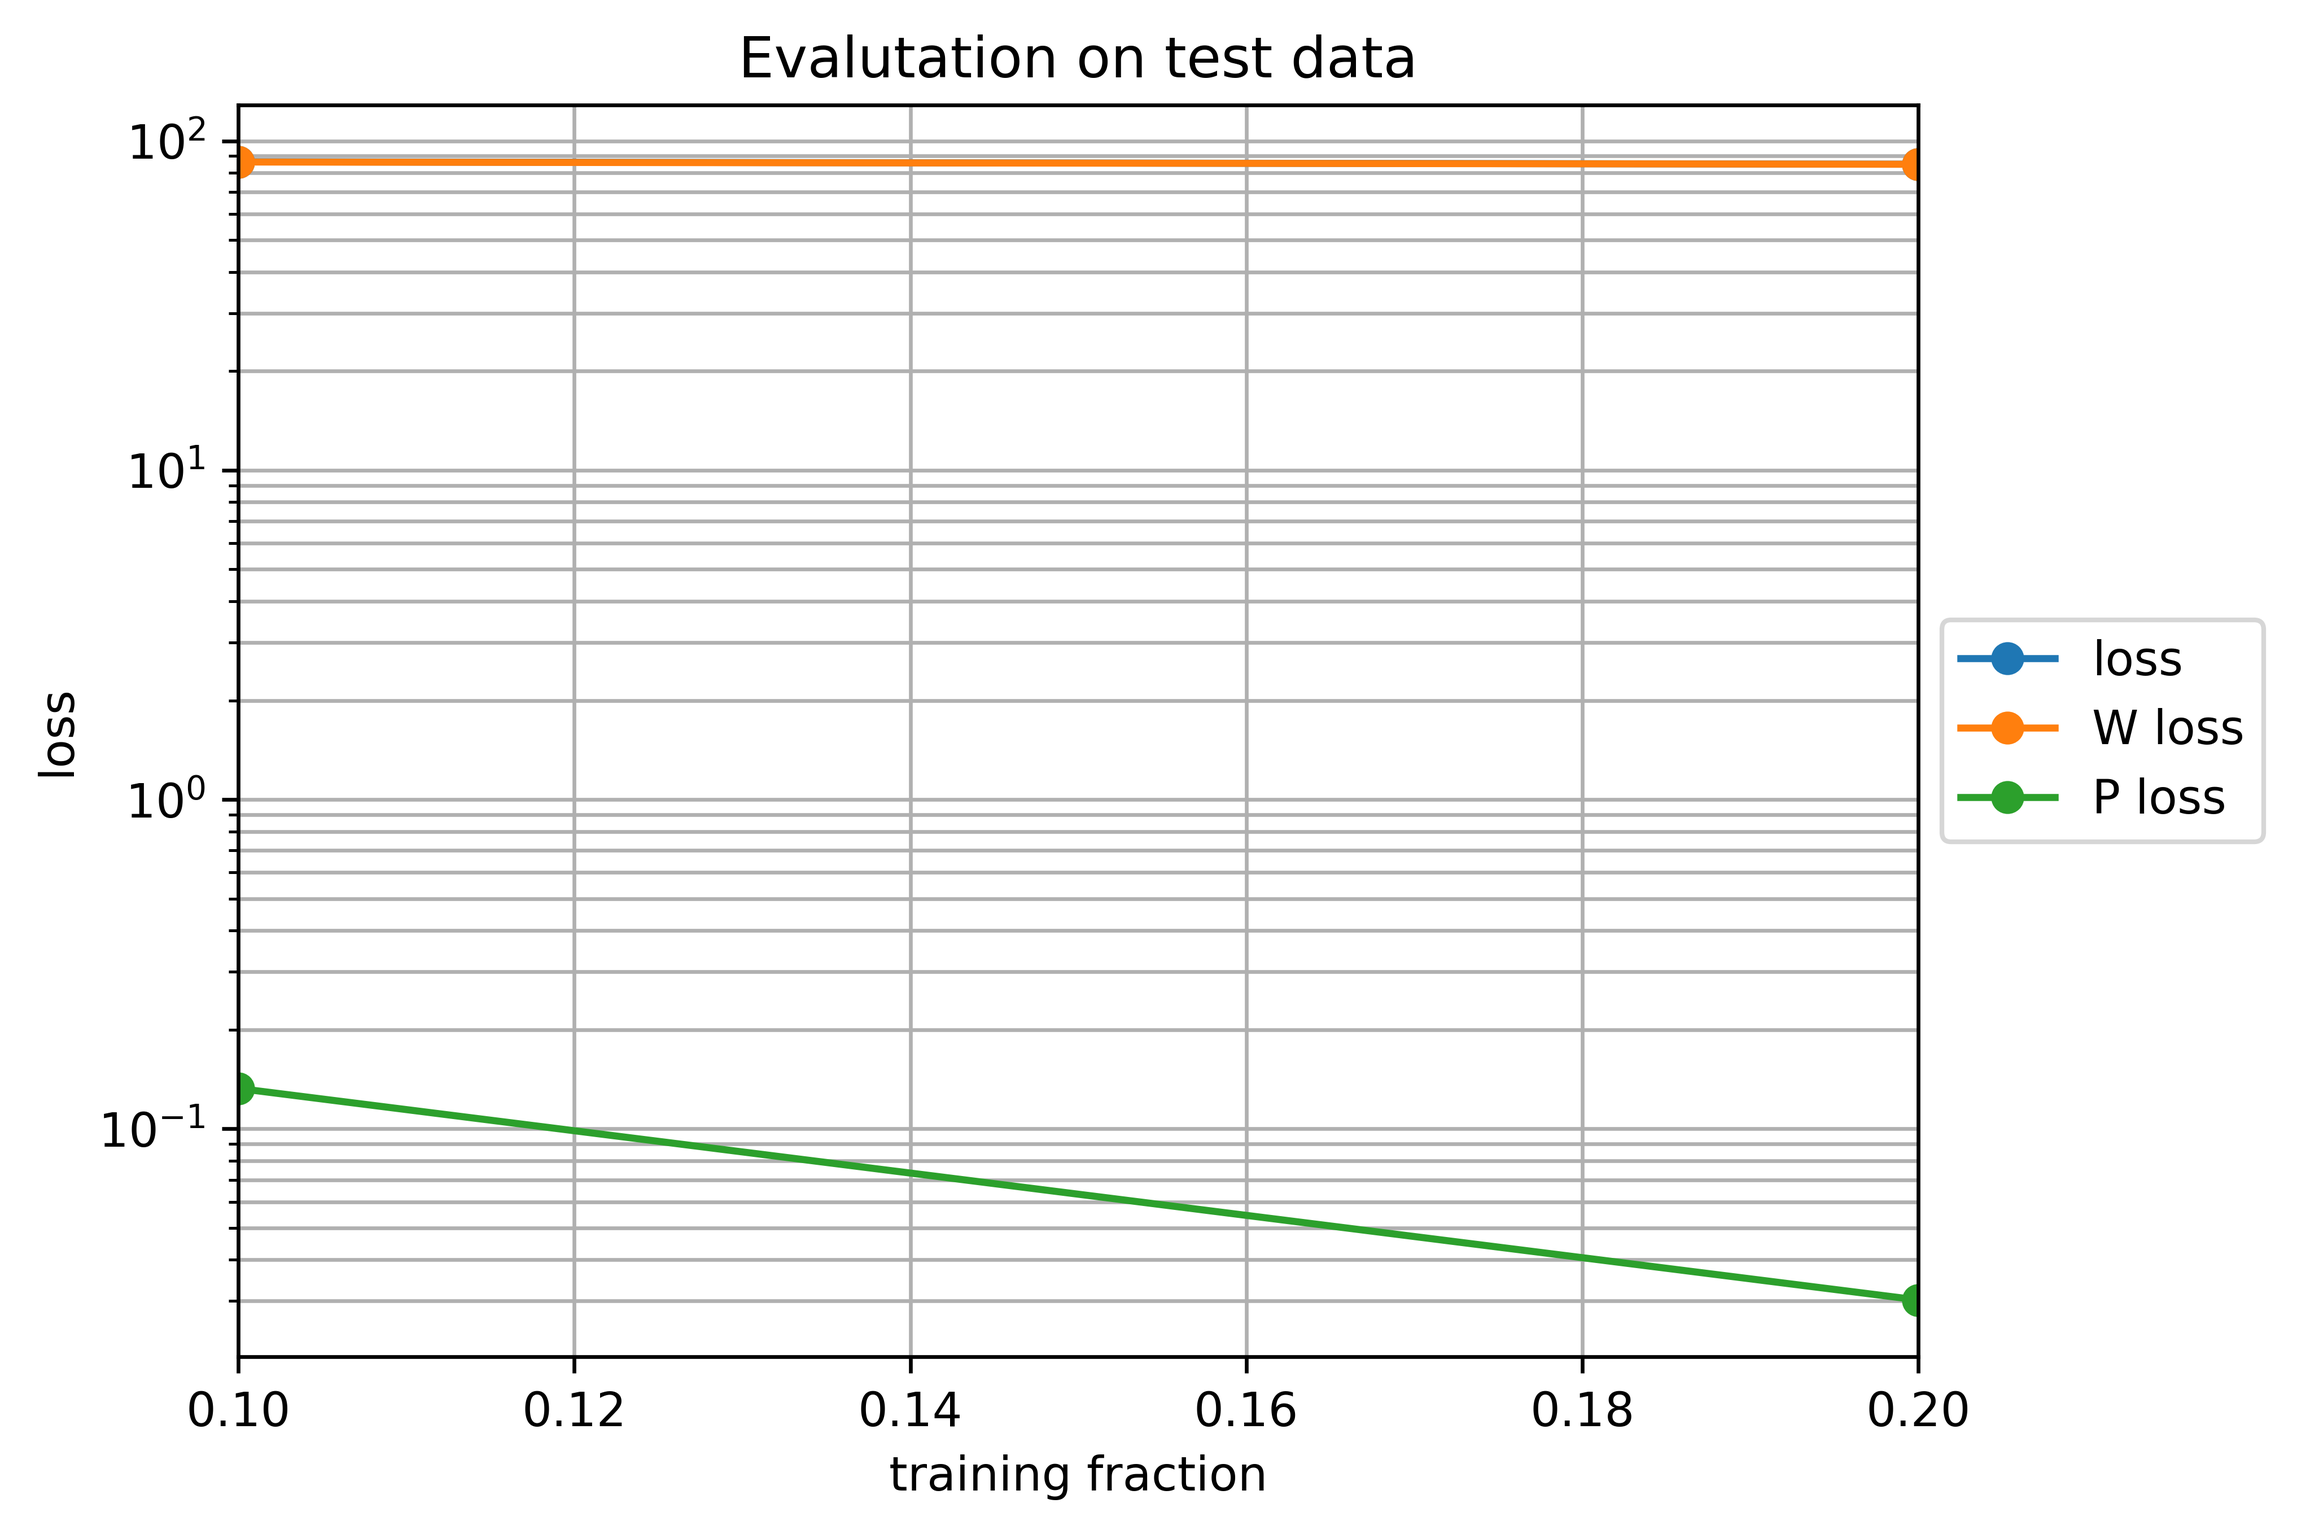
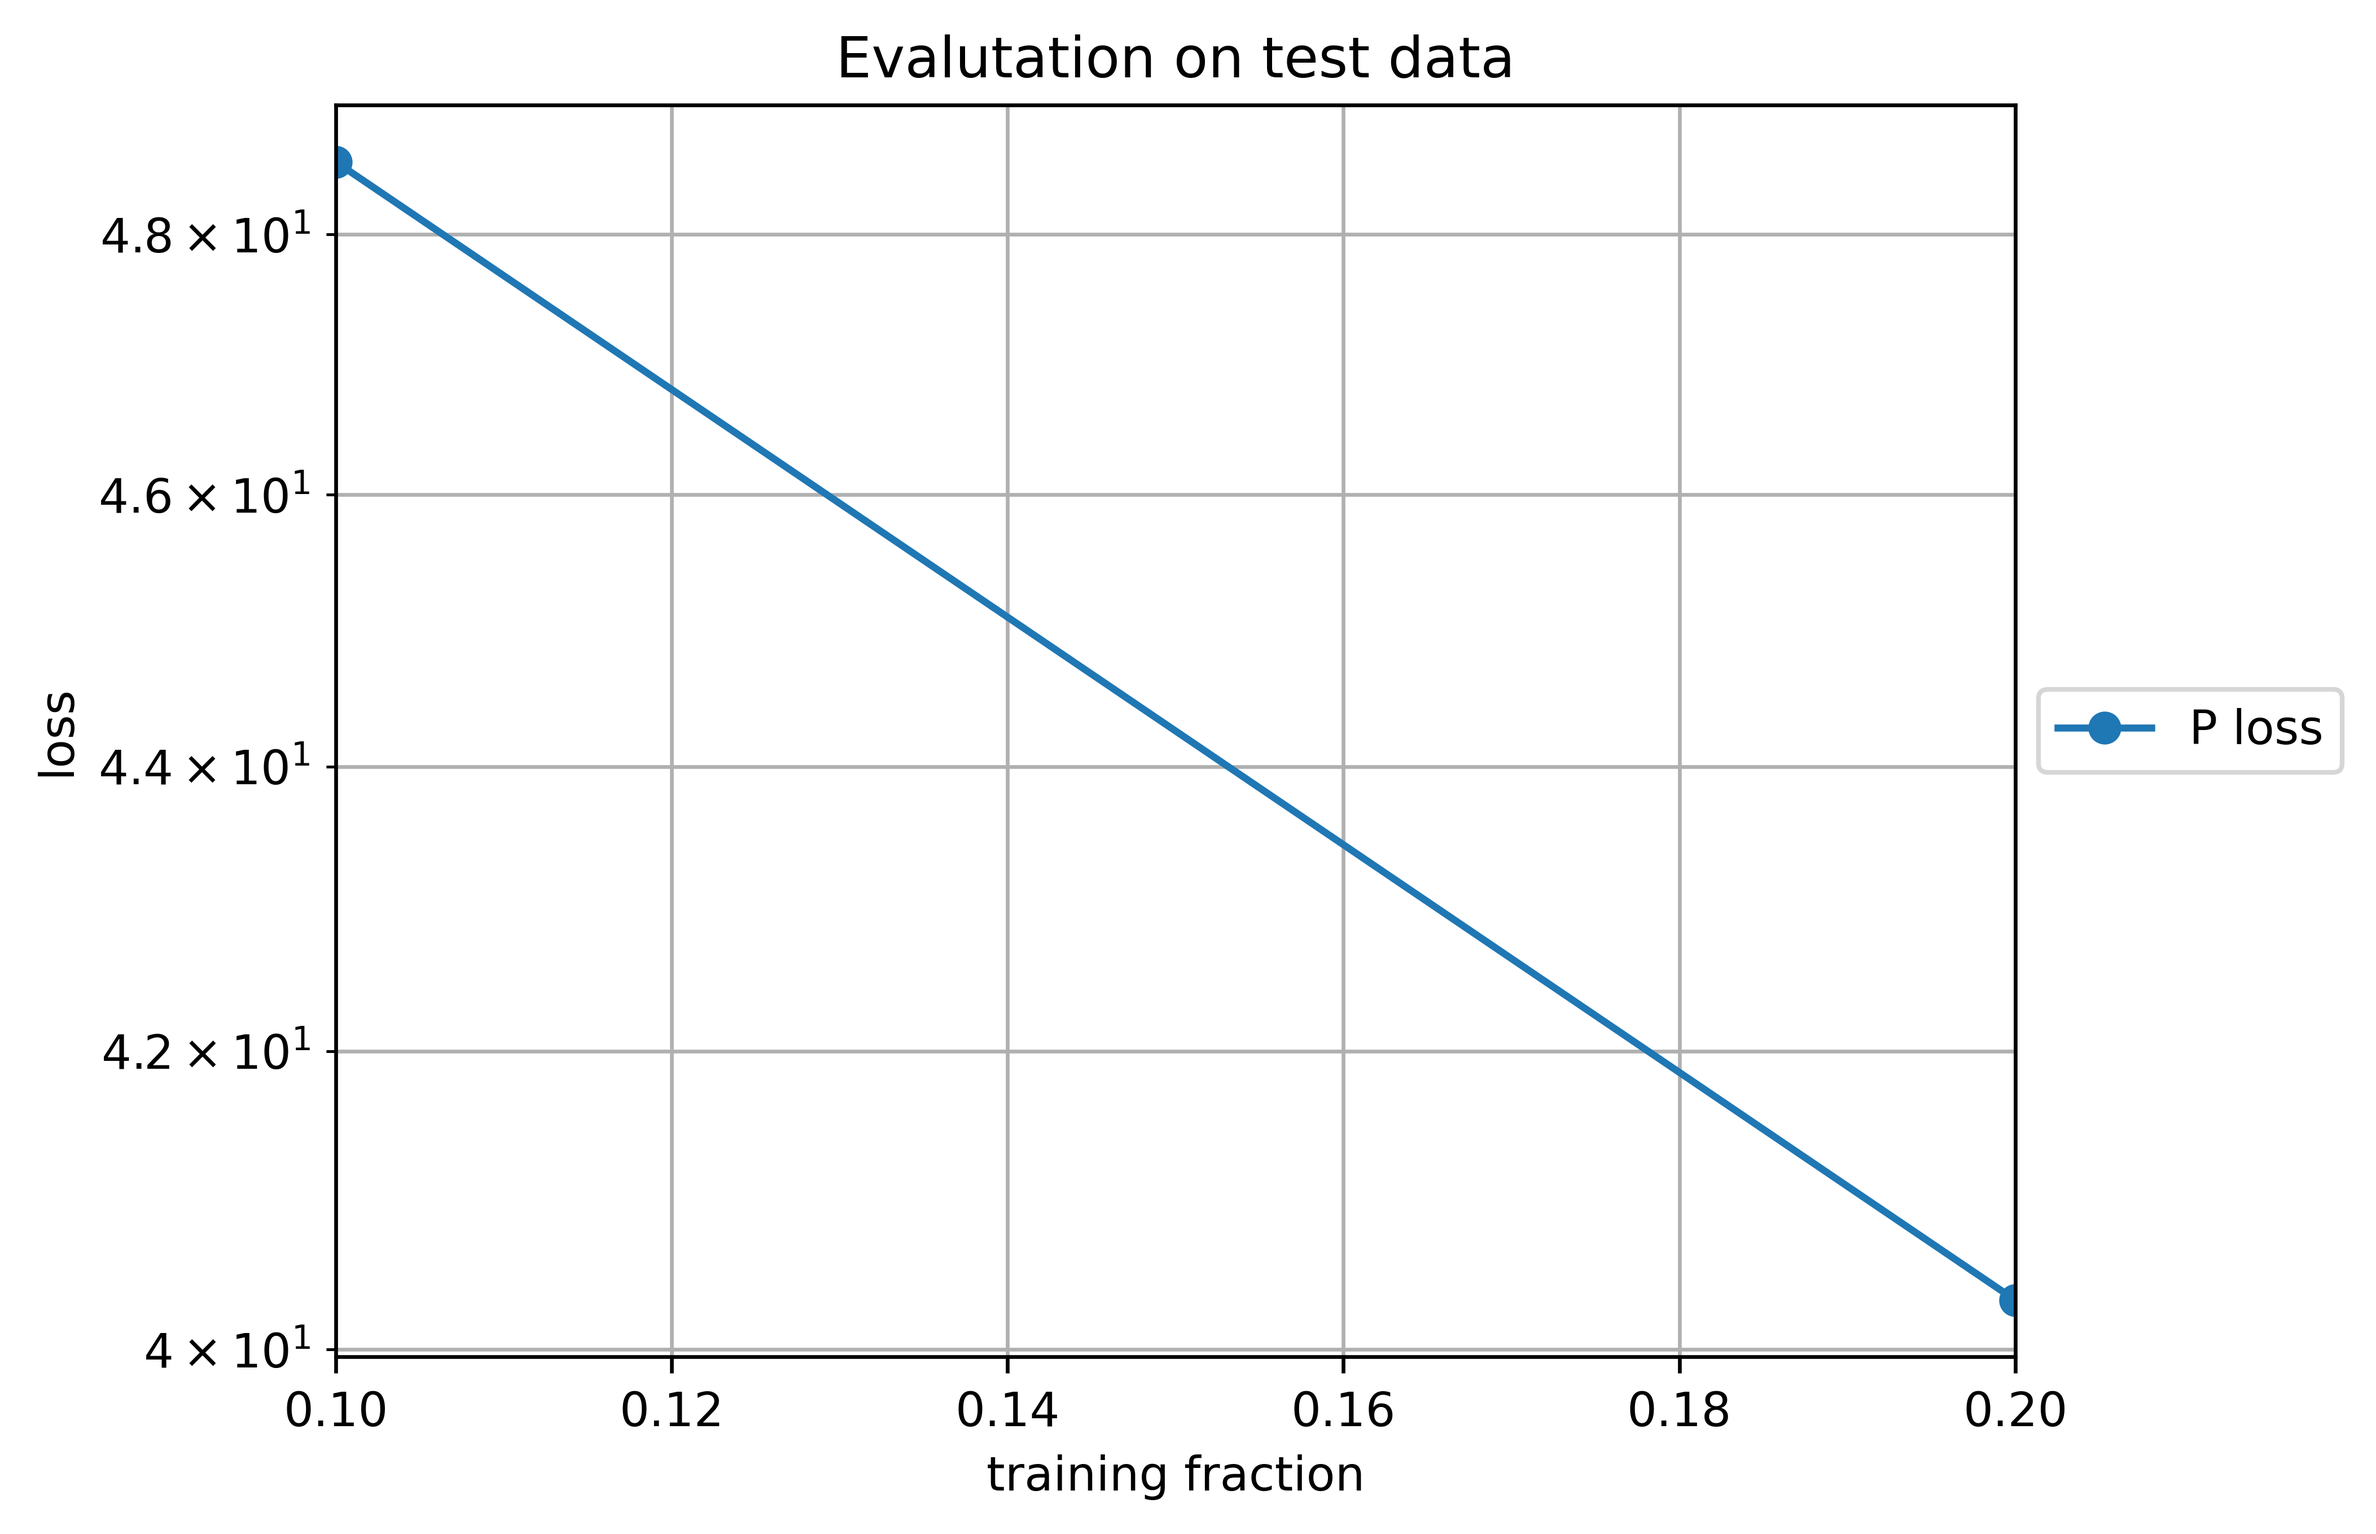
Small fix to previous commit

Changed region(s): [[0.0312, 0.0618, 0.9988, 0.9893], [0.3121, 0.0309, 0.6554, 0.0618], [0.0, 0.4637, 0.0312, 0.4947]]

diff --git a/Task_02/02_hyperelasticity_I/main_concentric_sampling.py b/Task_02/02_hyperelasticity_I/main_concentric_sampling.py
@@ -103,7 +103,7 @@ plt.legend(loc='center left', bbox_to_anchor=(1, 0.5))
 plt.savefig('images/training_loss.png', dpi=fig.dpi, bbox_inches='tight')
 
 fig = plt.figure(dpi=600)
-if t_type == 'Naive':
+if t_type == 'PhysicsAugmented':
     plt.semilogy(test_train_split,mean_test_losses[:,1] + mean_test_losses[:,2], marker='o', label='loss')
     plt.semilogy(test_train_split,mean_test_losses[:,1], marker='o', label='W loss')
     plt.semilogy(test_train_split,mean_test_losses[:,2], marker='o', label='P loss')
